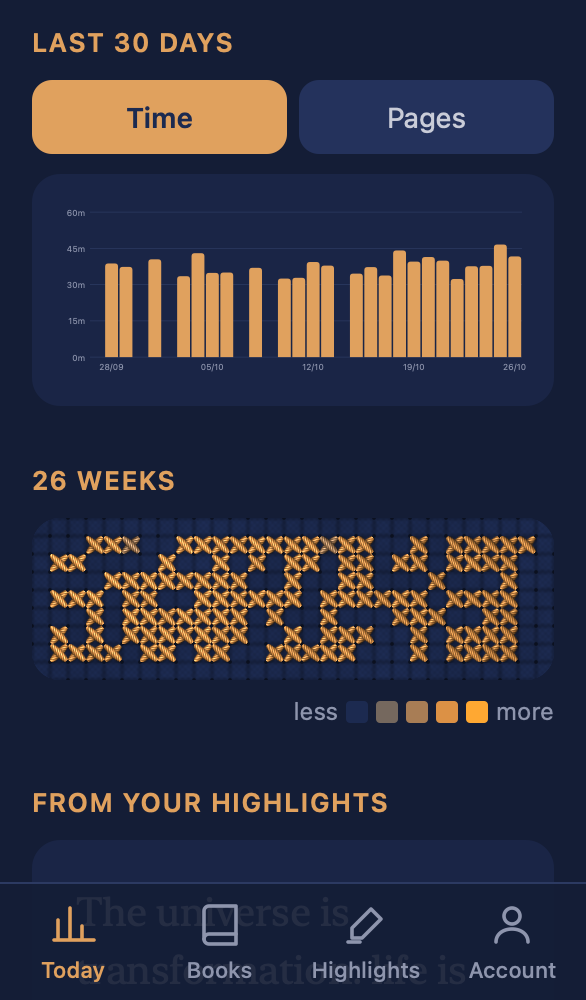
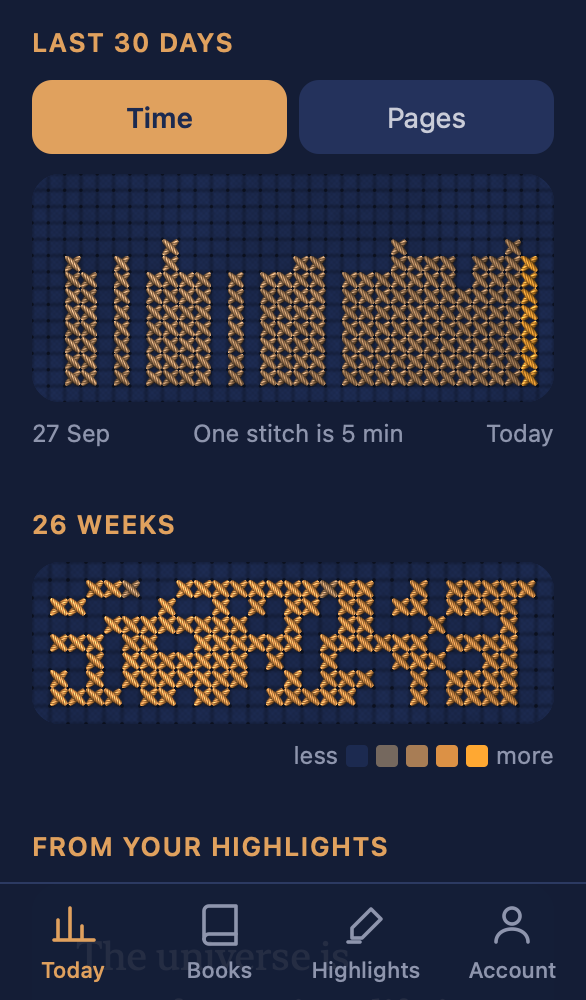
Embroider the bar charts
Today's last 30 days and the widget's last 7 days are now columns of cross
stitch in the calendar's thread: earlier days muted tan, today the most vivid
amber. On the web each stitch is a round number of minutes or pages chosen so
the longest day fits twelve stitches, and the scale is written under the
chart; days sit side by side on a phone and get a gap on wider screens. Tapping
a column still shows the exact time and pages. Without WebGL the flat chart
is drawn instead.

The web app's two stitched charts share one helper that keeps a canvas per
chart across renders. The widget bars use the same stitch images as the
widget calendar.

Changed region(s): [[0.0614, 0.217, 0.9522, 0.868], [0.1229, 0.186, 0.1536, 0.217]]

diff --git a/index.html b/index.html
@@ -215,6 +215,7 @@
   .hoop canvas { display: block; width: 100%; }
   .hoop .no-gl { display: none; }
   .hoop + .legend i { border-radius: 2px; }
+  .scale { display: flex; justify-content: space-between; gap: 8px; color: var(--text-muted); font-size: 12px; margin-top: 8px; }
 </style>
 </head>
 <body>
@@ -444,7 +445,8 @@ function viewHome() {
     </div>
     <h2>Last 30 days</h2>
     <div class="seg" id="metric"><button data-m="time" class="on">Time</button><button data-m="pages">Pages</button></div>
-    <div class="card" id="bars"></div>
+    <div class="hoop" id="bars" style="position:relative"><div class="linen"></div></div>
+    <div class="scale" id="bars-scale"></div>
     <h2>26 weeks</h2>
     <div class="hoop" id="heat" style="position:relative"><div class="linen"></div></div>
     <div class="legend">less <i style="background:#1C2A50"></i>${STITCH_THREADS.slice(1).map(c => `<i style="background:${c}"></i>`).join("")} more</div>
@@ -459,56 +461,107 @@ function viewHome() {
 function mountHome() {
   if (DATA.stats.empty) return;
   const last30 = DATA.stats.days.slice(-30), bars = document.getElementById("bars");
-  barChart(bars, last30, "time");
+  stitchedBars(bars, last30, "time");
   document.querySelectorAll("#metric button").forEach(btn => btn.addEventListener("click", () => {
     document.querySelectorAll("#metric button").forEach(b => b.classList.toggle("on", b === btn));
-    barChart(bars, last30, btn.dataset.m);
+    stitchedBars(bars, last30, btn.dataset.m);
   }));
   sampler(document.getElementById("heat"), DATA.stats.days);
 }
 
-// The 26 weeks as cross stitch on night blue cloth, one stitch per day: dull to vivid amber, more vivid for longer reading.
-// The same threads as the widgets and the landing page.
-// One canvas lives across renders: WebGL contexts are costly and browsers cap how many a page holds.
+// The charts on Today are cross stitch on night blue cloth, with the same threads as the widgets and the landing page:
+// dull to vivid amber, more vivid for more reading.
 const STITCH_THREADS = ["", "#75685E", "#A87D55", "#DC9145", "#FFA832"];
 const readLevel = s => s < 60 ? 0 : s < 900 ? 1 : s < 1800 ? 2 : s < 3600 ? 3 : 4;
-const stitch = {canvas: document.createElement("canvas"), days: [], lead: 0, weeks: 26, margin: 1};
-let stitchReady = null;
 
-function buildSampler(ctx, plot) {
-  const {days, lead, margin} = stitch;
-  days.forEach((d, i) => {
-    const l = readLevel(d.seconds), j = i + lead;
-    if (l) plot(ctx, margin + Math.floor(j / 7), margin + j % 7, STITCH_THREADS[l]);
-  });
+let embroideryLib = null;
+const loadEmbroidery = () => embroideryLib ||= import("/embroidery.js").catch(() => null);
+
+// One canvas per chart, kept across renders: WebGL contexts are costly and browsers cap how many a page holds.
+// mount() resolves false when there is no WebGL, so the caller can draw the flat chart instead.
+function stitchedCanvas(build) {
+  const piece = {canvas: document.createElement("canvas"), cols: 1, rows: 1, api: undefined};
+  piece.mount = async parent => {
+    if (piece.api === undefined) {
+      const lib = await loadEmbroidery();
+      piece.api ??= (lib && lib.embroider(piece.canvas, {
+        cell: w => w / piece.cols, fabric: [28, 42, 80], sweep: 1.4, build: ctx => build(ctx, lib.plot)})) || null;
+    }
+    if (!piece.api || !parent.isConnected) return false;
+    piece.canvas.style.aspectRatio = `${piece.cols} / ${piece.rows}`;
+    parent.appendChild(piece.canvas);
+    piece.api.relayout();
+    return true;
+  };
+  return piece;
 }
+
+// The 26 weeks, one stitch per day, Monday at the top.
+const calendar = stitchedCanvas((ctx, plot) => {
+  calendar.days.forEach((d, i) => {
+    const l = readLevel(d.seconds), j = i + calendar.lead;
+    if (l) plot(ctx, 1 + Math.floor(j / 7), 1 + j % 7, STITCH_THREADS[l]);
+  });
+});
 
 async function sampler(hoop, days) {
   const lead = (new Date(days[0].date + "T12:00:00").getDay() + 6) % 7;  // Monday-first rows
-  Object.assign(stitch, {days, lead, weeks: Math.ceil((lead + days.length) / 7)});
-  const cols = stitch.weeks + 2 * stitch.margin, rows = 7 + 2 * stitch.margin;
-  stitchReady ||= import("/embroidery.js").then(({embroider, plot}) => embroider(stitch.canvas, {
-    cell: w => w / (stitch.weeks + 2 * stitch.margin), fabric: [28, 42, 80], sweep: 1.4,
-    build: ctx => buildSampler(ctx, plot)})).catch(() => null);
-  const api = await stitchReady;
-  if (!hoop.isConnected) return;
-  if (!api) {  // no WebGL: the flat calendar
+  Object.assign(calendar, {days, lead, cols: Math.ceil((lead + days.length) / 7) + 2, rows: 9});
+  if (!await calendar.mount(hoop.querySelector(".linen"))) {
+    if (!hoop.isConnected) return;
     hoop.className = "card";
     hoop.innerHTML = "";
     return heatmap(hoop, days);
   }
-  stitch.canvas.style.aspectRatio = `${cols} / ${rows}`;
-  hoop.querySelector(".linen").appendChild(stitch.canvas);
-  api.relayout();
-  const show = tipFor(hoop);
-  stitch.canvas.onpointerdown = e => {
-    const r = stitch.canvas.getBoundingClientRect(), cell = r.width / cols;
-    const col = Math.floor((e.clientX - r.left) / cell) - stitch.margin, row = Math.floor((e.clientY - r.top) / cell) - stitch.margin;
+  const show = tipFor(hoop), canvas = calendar.canvas;
+  canvas.onpointerdown = e => {
+    const r = canvas.getBoundingClientRect(), cell = r.width / calendar.cols;
+    const col = Math.floor((e.clientX - r.left) / cell) - 1, row = Math.floor((e.clientY - r.top) / cell) - 1;
     const d = row >= 0 && row < 7 && days[col * 7 + row - lead];
     if (!d) return;
     const hr = hoop.getBoundingClientRect();
-    show(r.left + (col + stitch.margin + .5) * cell - hr.left, r.top + (row + stitch.margin) * cell - hr.top,
-      `${dayLabel(d.date)} · <b>${durText(d.seconds)}</b>`);
+    show(r.left + (col + 1.5) * cell - hr.left, r.top + (row + 1) * cell - hr.top, `${dayLabel(d.date)} · <b>${durText(d.seconds)}</b>`);
+  };
+}
+
+// The last 30 days as columns of cross stitch, one stitch wide: side by side on a phone so the stitches stay
+// big enough to read, with a gap between days where there is room. Each stitch is a round number of minutes
+// or pages, chosen so the longest day fits in BAR_ROWS; today is in the most vivid thread.
+const BAR_ROWS = 12;
+const STITCH_UNITS = {time: [5, 10, 15, 20, 30, 45, 60, 90, 120], pages: [1, 2, 3, 5, 10, 15, 20, 25, 50, 100, 200]};
+const dayBars = stitchedCanvas((ctx, plot) => {
+  dayBars.heights.forEach((h, i) => {
+    const thread = i === dayBars.heights.length - 1 ? STITCH_THREADS[4] : STITCH_THREADS[2];
+    for (let k = 0; k < h; k++) plot(ctx, 1 + dayBars.step * i, dayBars.rows - 2 - k, thread);
+  });
+});
+
+async function stitchedBars(hoop, days, metric) {
+  const vals = days.map(d => metric === "time" ? d.seconds / 60 : d.pages);
+  const units = STITCH_UNITS[metric], top = Math.max(...vals);
+  const unit = units.find(u => u * BAR_ROWS >= top) || units[units.length - 1];
+  const heights = vals.map(v => v > 0 ? Math.min(BAR_ROWS, Math.max(1, Math.round(v / unit))) : 0);
+  const step = hoop.clientWidth >= 480 ? 2 : 1;
+  Object.assign(dayBars, {heights, step, cols: step * (days.length - 1) + 3, rows: BAR_ROWS + 2});
+  const fmt = iso => new Date(iso + "T12:00:00").toLocaleDateString(undefined, {month: "short", day: "numeric"});
+  document.getElementById("bars-scale").innerHTML =
+    `<span>${fmt(days[0].date)}</span><span>One stitch is ${unit} ${metric === "time" ? "min" : unit === 1 ? "page" : "pages"}</span><span>Today</span>`;
+  if (!await dayBars.mount(hoop.querySelector(".linen"))) {
+    if (!hoop.isConnected) return;
+    hoop.className = "card";
+    hoop.querySelector(".linen")?.remove();
+    document.getElementById("bars-scale").remove();
+    return barChart(hoop, days, metric);
+  }
+  const show = tipFor(hoop), canvas = dayBars.canvas;
+  hoop.querySelectorAll(".tip").forEach((t, i, all) => i < all.length - 1 && t.remove());  // one tip after a metric switch
+  canvas.onpointerdown = e => {
+    const r = canvas.getBoundingClientRect(), cell = r.width / dayBars.cols;
+    const i = Math.round((Math.floor((e.clientX - r.left) / cell) - 1) / step), d = days[i];
+    if (!d) return;
+    const hr = hoop.getBoundingClientRect();
+    show(r.left + (1 + step * i + .5) * cell - hr.left, r.top + (dayBars.rows - 1 - Math.max(1, heights[i])) * cell - hr.top,
+      `${dayLabel(d.date)} · <b>${durText(d.seconds)}</b> · ${d.pages} pages`);
   };
 }
 

diff --git a/ios/Widget/HeatmapWidget.swift b/ios/Widget/HeatmapWidget.swift
@@ -27,7 +27,24 @@ private func weeks(_ days: [Int], ending today: Date = .now) -> [[Int?]] {
 /// Stitches rendered by the landing page's shader (Assets: Stitch1...4), one per reading level, dull to vivid amber.
 /// Each image is the stitch plus a margin for its shadow, a sixth of the cell on every side.
 func stitchImage(_ level: Int) -> Image { Image("Stitch\(level)") }
-private let stitchMargin: CGFloat = 16.0 / 96.0
+let stitchMargin: CGFloat = 16.0 / 96.0
+
+/// The holes of the aida cloth over a cols x rows area, so empty cells still read as cloth waiting for thread.
+func drawHoles(_ ctx: GraphicsContext, cols: Int, rows: Int, cell: CGFloat) {
+    let r = cell * 0.07
+    for c in 0...cols {
+        for row in 0...rows {
+            ctx.fill(Path(ellipseIn: CGRect(x: CGFloat(c) * cell - r, y: CGFloat(row) * cell - r, width: 2 * r, height: 2 * r)),
+                     with: .color(.black.opacity(0.3)))
+        }
+    }
+}
+
+/// One stitch image in the cell at (col, row), drawn a little larger so its shadow fits.
+func drawStitch(_ ctx: GraphicsContext, _ stitch: GraphicsContext.ResolvedImage, col: Int, row: Int, cell: CGFloat) {
+    let m = cell * stitchMargin
+    ctx.draw(stitch, in: CGRect(x: CGFloat(col) * cell - m, y: CGFloat(row) * cell - m, width: cell + 2 * m, height: cell + 2 * m))
+}
 
 /// The calendar stitched straight onto the cloth, cell against cell like real cross stitch.
 struct HeatGrid: View {
@@ -57,20 +74,11 @@ struct HeatGrid: View {
     private func grid(_ shown: [[Int?]], cell: CGFloat) -> some View {
         Canvas { ctx, _ in
             let stitches = (1...4).map { ctx.resolve(stitchImage($0)) }
-            // the holes of the aida cloth, so empty days still read as cloth waiting for thread
-            for w in 0...shown.count {
-                for d in 0...7 {
-                    let r = cell * 0.07
-                    ctx.fill(Path(ellipseIn: CGRect(x: CGFloat(w) * cell - r, y: CGFloat(d) * cell - r, width: 2 * r, height: 2 * r)),
-                             with: .color(.black.opacity(0.3)))
-                }
-            }
+            drawHoles(ctx, cols: shown.count, rows: 7, cell: cell)
             for (w, week) in shown.enumerated() {
                 for d in 0..<7 {
                     guard let seconds = week[d], level(seconds) > 0 else { continue }
-                    let m = cell * stitchMargin
-                    ctx.draw(stitches[level(seconds) - 1],
-                             in: CGRect(x: CGFloat(w) * cell - m, y: CGFloat(d) * cell - m, width: cell + 2 * m, height: cell + 2 * m))
+                    drawStitch(ctx, stitches[level(seconds) - 1], col: w, row: d, cell: cell)
                 }
             }
         }

diff --git a/ios/Widget/ReadingWidget.swift b/ios/Widget/ReadingWidget.swift
@@ -73,20 +73,31 @@ struct BigDuration: View {
     }
 }
 
+/// The last seven days as columns of cross stitch, one stitch wide so the stitches stay big enough to read,
+/// filled to the top at 30 minutes or the week's longest day: earlier days in muted tan thread, today in the most vivid one.
 struct WeekBars: View {
     let values: [Int]
+    private let rows = 4
 
     var body: some View {
         let top = max(values.max() ?? 0, 1_800)
-        HStack(alignment: .bottom, spacing: 4) {
-            ForEach(Array(values.enumerated()), id: \.offset) { index, value in
-                RoundedRectangle(cornerRadius: 2.5)
-                    .fill(index == values.count - 1 ? accent : value > 0 ? Color(hex: 0x4E6096) : Theme.surface)
-                    .frame(maxWidth: .infinity)
-                    .frame(height: max(3, CGFloat(value) / CGFloat(top) * 34))
+        let cols = values.count * 2 - 1
+        GeometryReader { geo in
+            let cell = min(geo.size.width / CGFloat(cols), geo.size.height / CGFloat(rows))
+            Canvas { ctx, _ in
+                let earlier = ctx.resolve(stitchImage(2)), today = ctx.resolve(stitchImage(4))
+                drawHoles(ctx, cols: cols, rows: rows, cell: cell)
+                for (i, value) in values.enumerated() where value > 0 {
+                    let height = min(rows, max(1, Int((Double(value) / Double(top) * Double(rows)).rounded())))
+                    for k in 0..<height {
+                        drawStitch(ctx, i == values.count - 1 ? today : earlier, col: 2 * i, row: rows - 1 - k, cell: cell)
+                    }
+                }
             }
+            .frame(width: cell * CGFloat(cols), height: cell * CGFloat(rows))
+            .frame(maxWidth: .infinity, maxHeight: .infinity, alignment: .bottomLeading)
         }
-        .frame(height: 34, alignment: .bottom)
+        .frame(height: 44)
     }
 }
 
